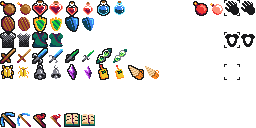
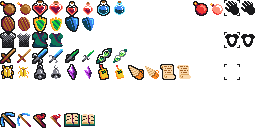
added health insurance

Changed region(s): [[0.625, 0.5, 0.75, 0.625]]

diff --git a/ts/items/shopItem.ts b/ts/items/shopItem.ts
@@ -98,6 +98,12 @@ const shopItemSpecs: Record<itemName, itemSpecs> = {
     desc: "Gain 1 heart.",
     item: consumableDic.health_potion,
   },
+  health_insurance: {
+    name: "Health Insurance",
+    cost: 40,
+    desc: "Gain 1 heart when clearing a level.",
+    item: getItem("health_insurance"),
+  },
   health_potion_big: {
     name: "Big Health Potion",
     cost: 15,

diff --git a/ts/level/levelManager.ts b/ts/level/levelManager.ts
@@ -322,6 +322,9 @@ export class LevelManager extends GameObject {
 
   checkCaveClear() {
     if (this.gameState.level.cave.checkClear()) {
+      if (this.gameState.hasItem("health_insurance")) {
+        this.gameState.health++;
+      }
       this.gameState.gold += 5;
       this.gameState.gameTimer.addSecs(5);
     }

diff --git a/ts/items/item.ts b/ts/items/item.ts
@@ -40,6 +40,7 @@ export const itemPosDic = {
   dark_crystal: new Position(4, 4),
   detonator: new Position(6, 4),
   drill: new Position(8, 4),
+  health_insurance: new Position(10, 4),
   empty: new Position(14, 4),
   picaxe: new Position(0, 7),
   flag: new Position(2, 7),
